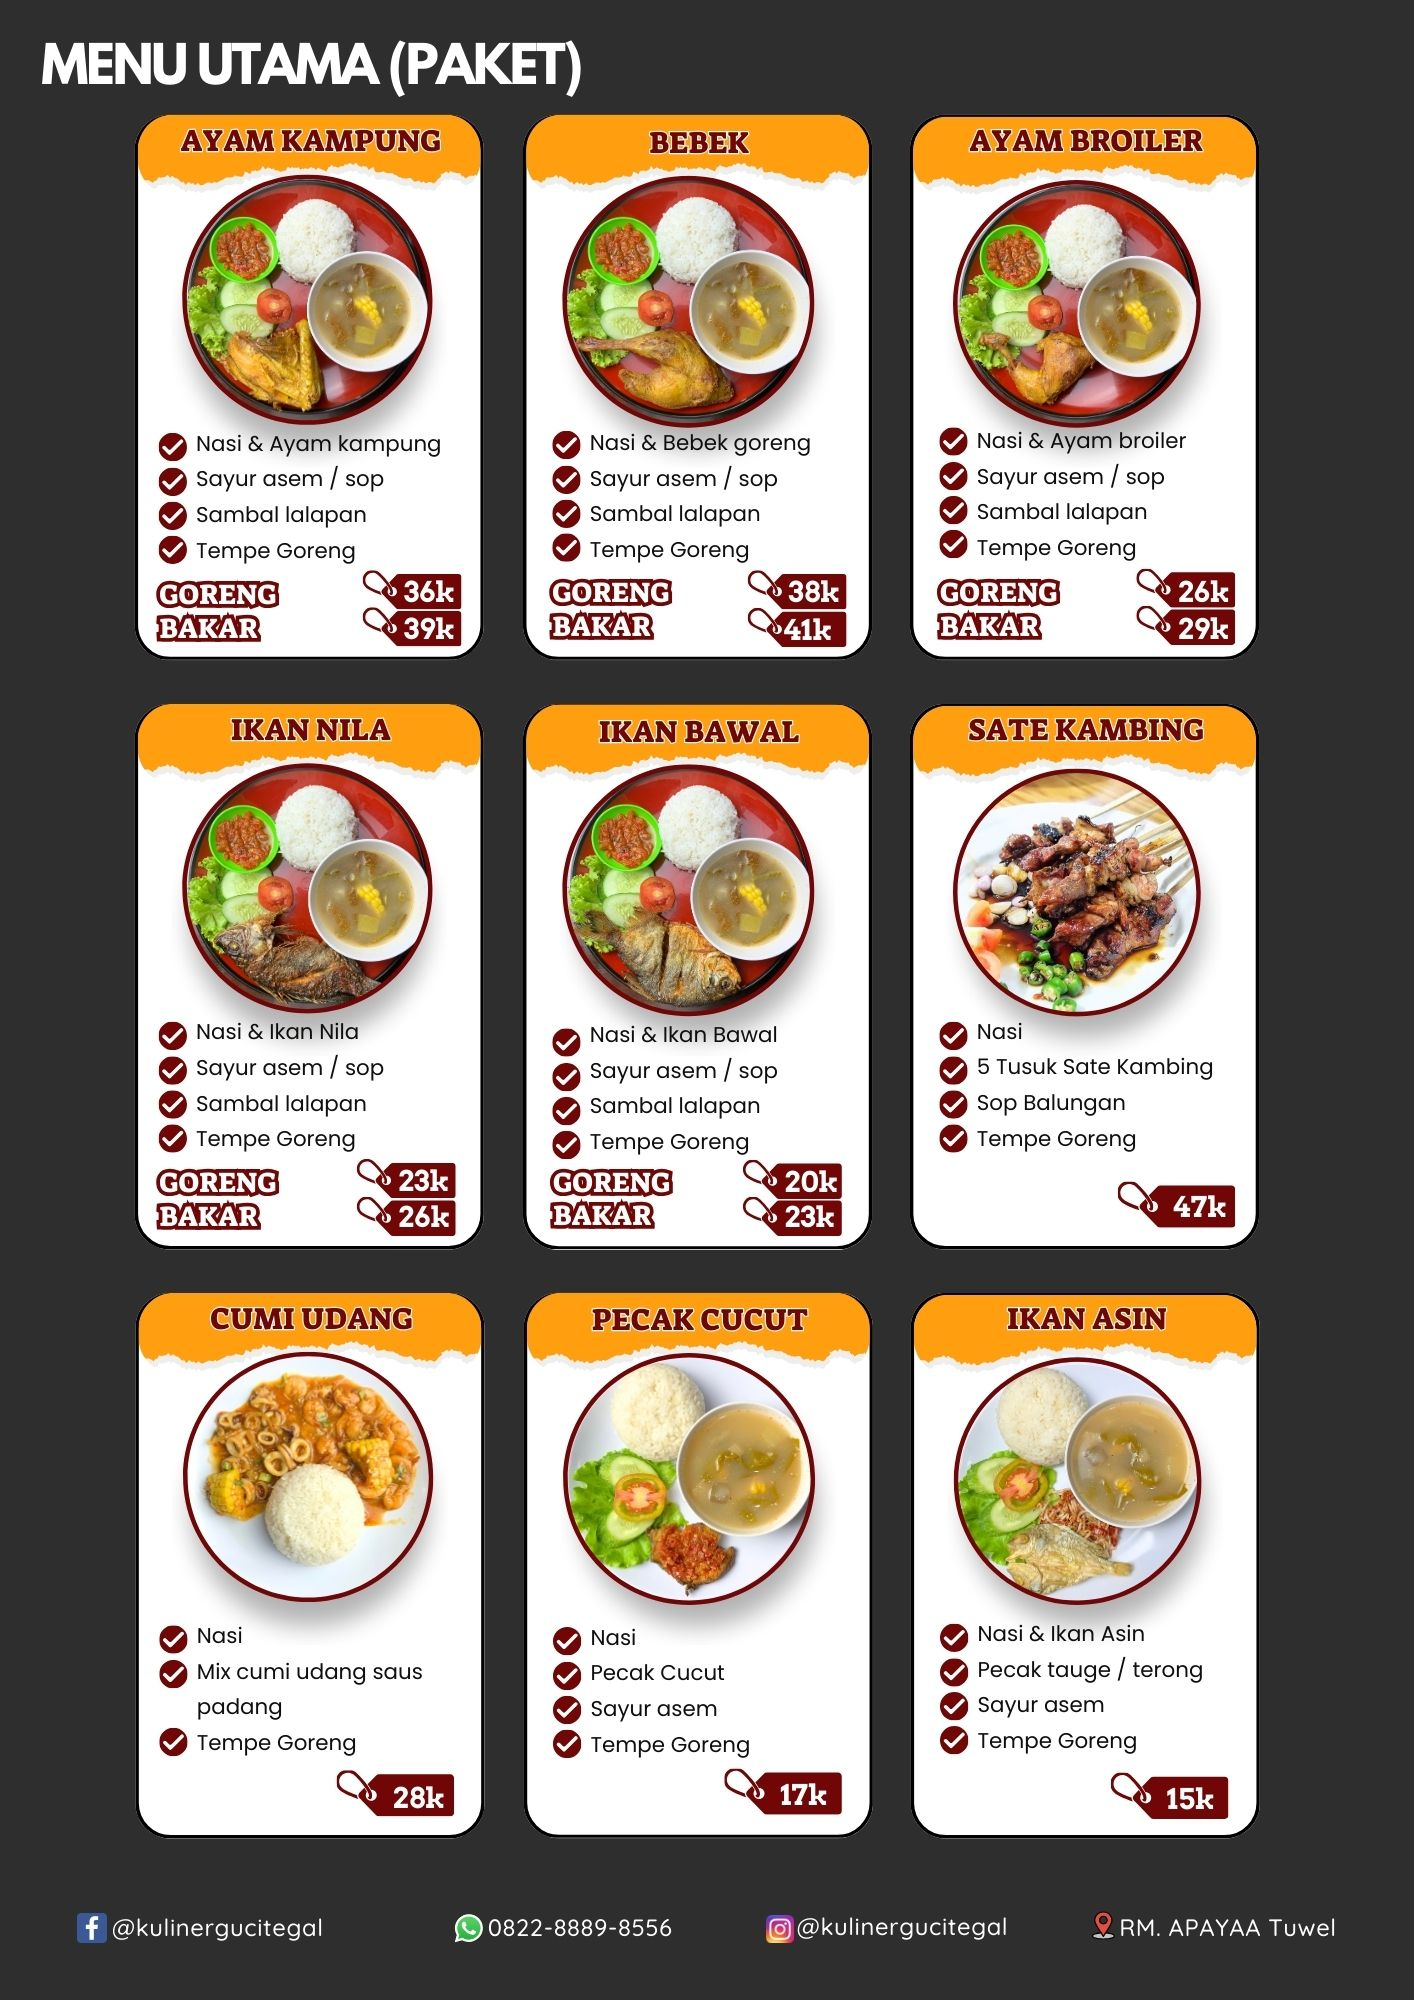
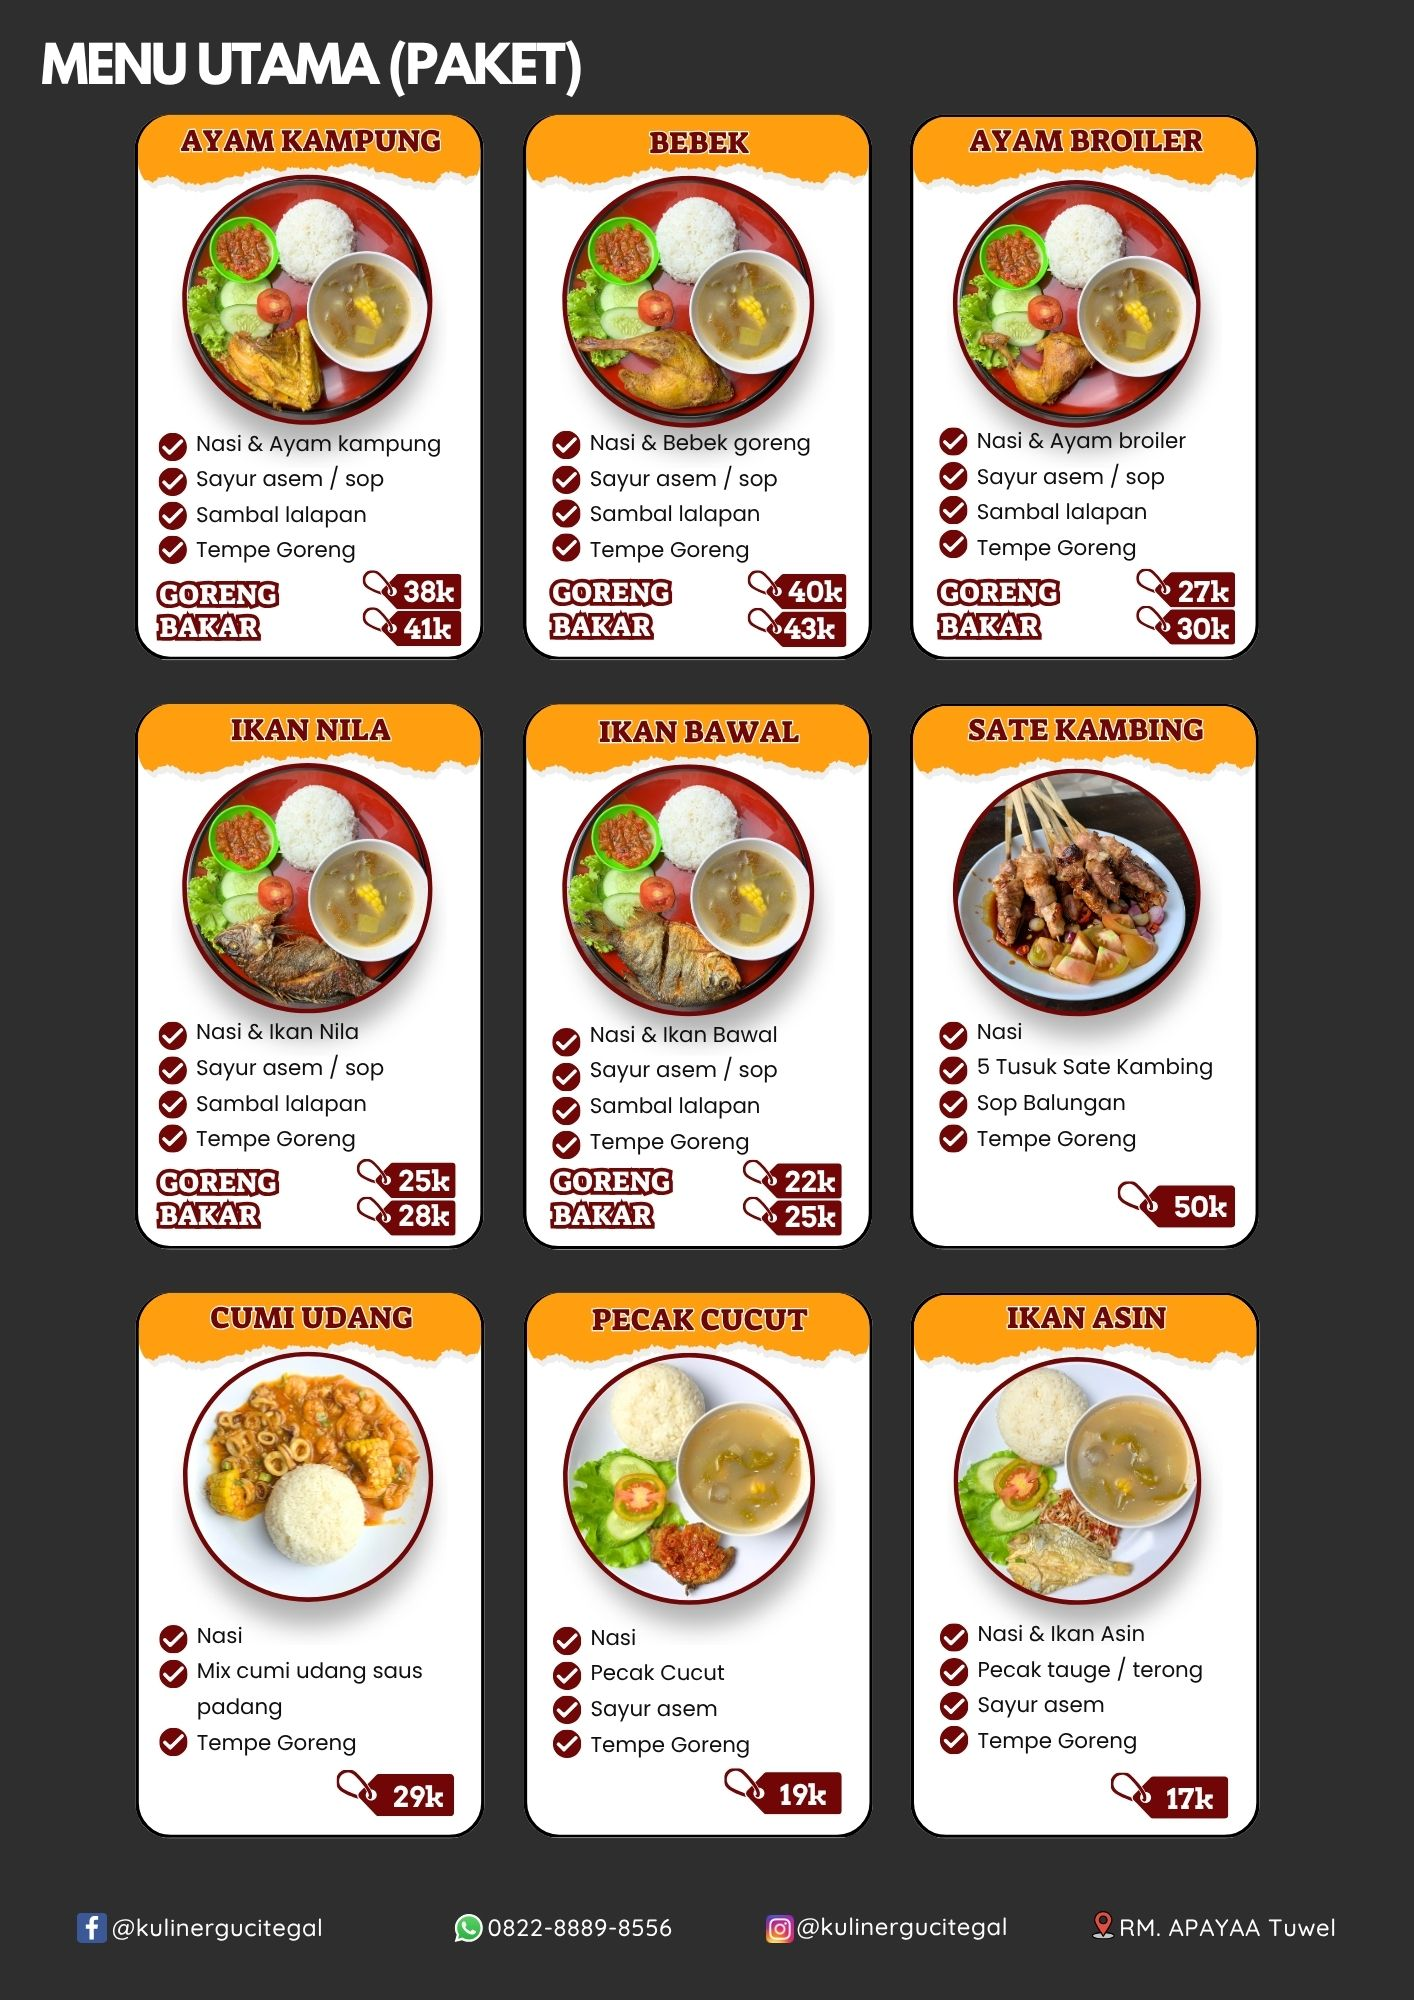
Perbarui harga menu utama, prasmanan, dan nasi box sesuai poster baru
Poster menu utama 3 dihapus karena tidak dipakai lagi. Bagian Tambahan
kini ada di poster 2; Ayam Geprek yang hanya ada di poster 3 ikut
dihapus. Menu baru: Ayam Broiler 1/8 Goreng Bawang Putih dan Asem Asem
Iga. Versi .webp poster yang berubah dibuat ulang.

diff --git a/_includes/menu-posters.html b/_includes/menu-posters.html
@@ -1,7 +1,7 @@
 {% case include.group %}
   {% when 'menu' %}
-    {% assign poster_paths = '/assets/img/menus/utama/menu-paket.jpg,/assets/img/menus/utama/menu-utama-1.jpg,/assets/img/menus/utama/menu-utama-2.jpg,/assets/img/menus/utama/menu-utama-3.jpg,/assets/img/menus/utama/aneka-minuman.jpg' | split: ',' %}
-    {% assign poster_alts = 'Foto menu paket RM. APAYAA,Foto menu utama RM. APAYAA halaman 1,Foto menu utama RM. APAYAA halaman 2,Foto menu utama RM. APAYAA halaman 3,Foto menu aneka minuman RM. APAYAA' | split: ',' %}
+    {% assign poster_paths = '/assets/img/menus/utama/menu-paket.jpg,/assets/img/menus/utama/menu-utama-1.jpg,/assets/img/menus/utama/menu-utama-2.jpg,/assets/img/menus/utama/aneka-minuman.jpg' | split: ',' %}
+    {% assign poster_alts = 'Foto menu paket RM. APAYAA,Foto menu utama RM. APAYAA halaman 1,Foto menu utama RM. APAYAA halaman 2,Foto menu aneka minuman RM. APAYAA' | split: ',' %}
   {% when 'prasmanan' %}
     {% assign poster_paths = '/assets/img/menus/catering-prasmanan/transit.jpg,/assets/img/menus/catering-prasmanan/menu-prasmanan.jpg,/assets/img/menus/catering-prasmanan/syarat-dan-ketentuan.jpg' | split: ',' %}
     {% assign poster_alts = 'Foto informasi transit pagi rombongan RM. APAYAA,Foto menu prasmanan RM. APAYAA,Foto syarat dan ketentuan pemesanan RM. APAYAA' | split: ',' %}
